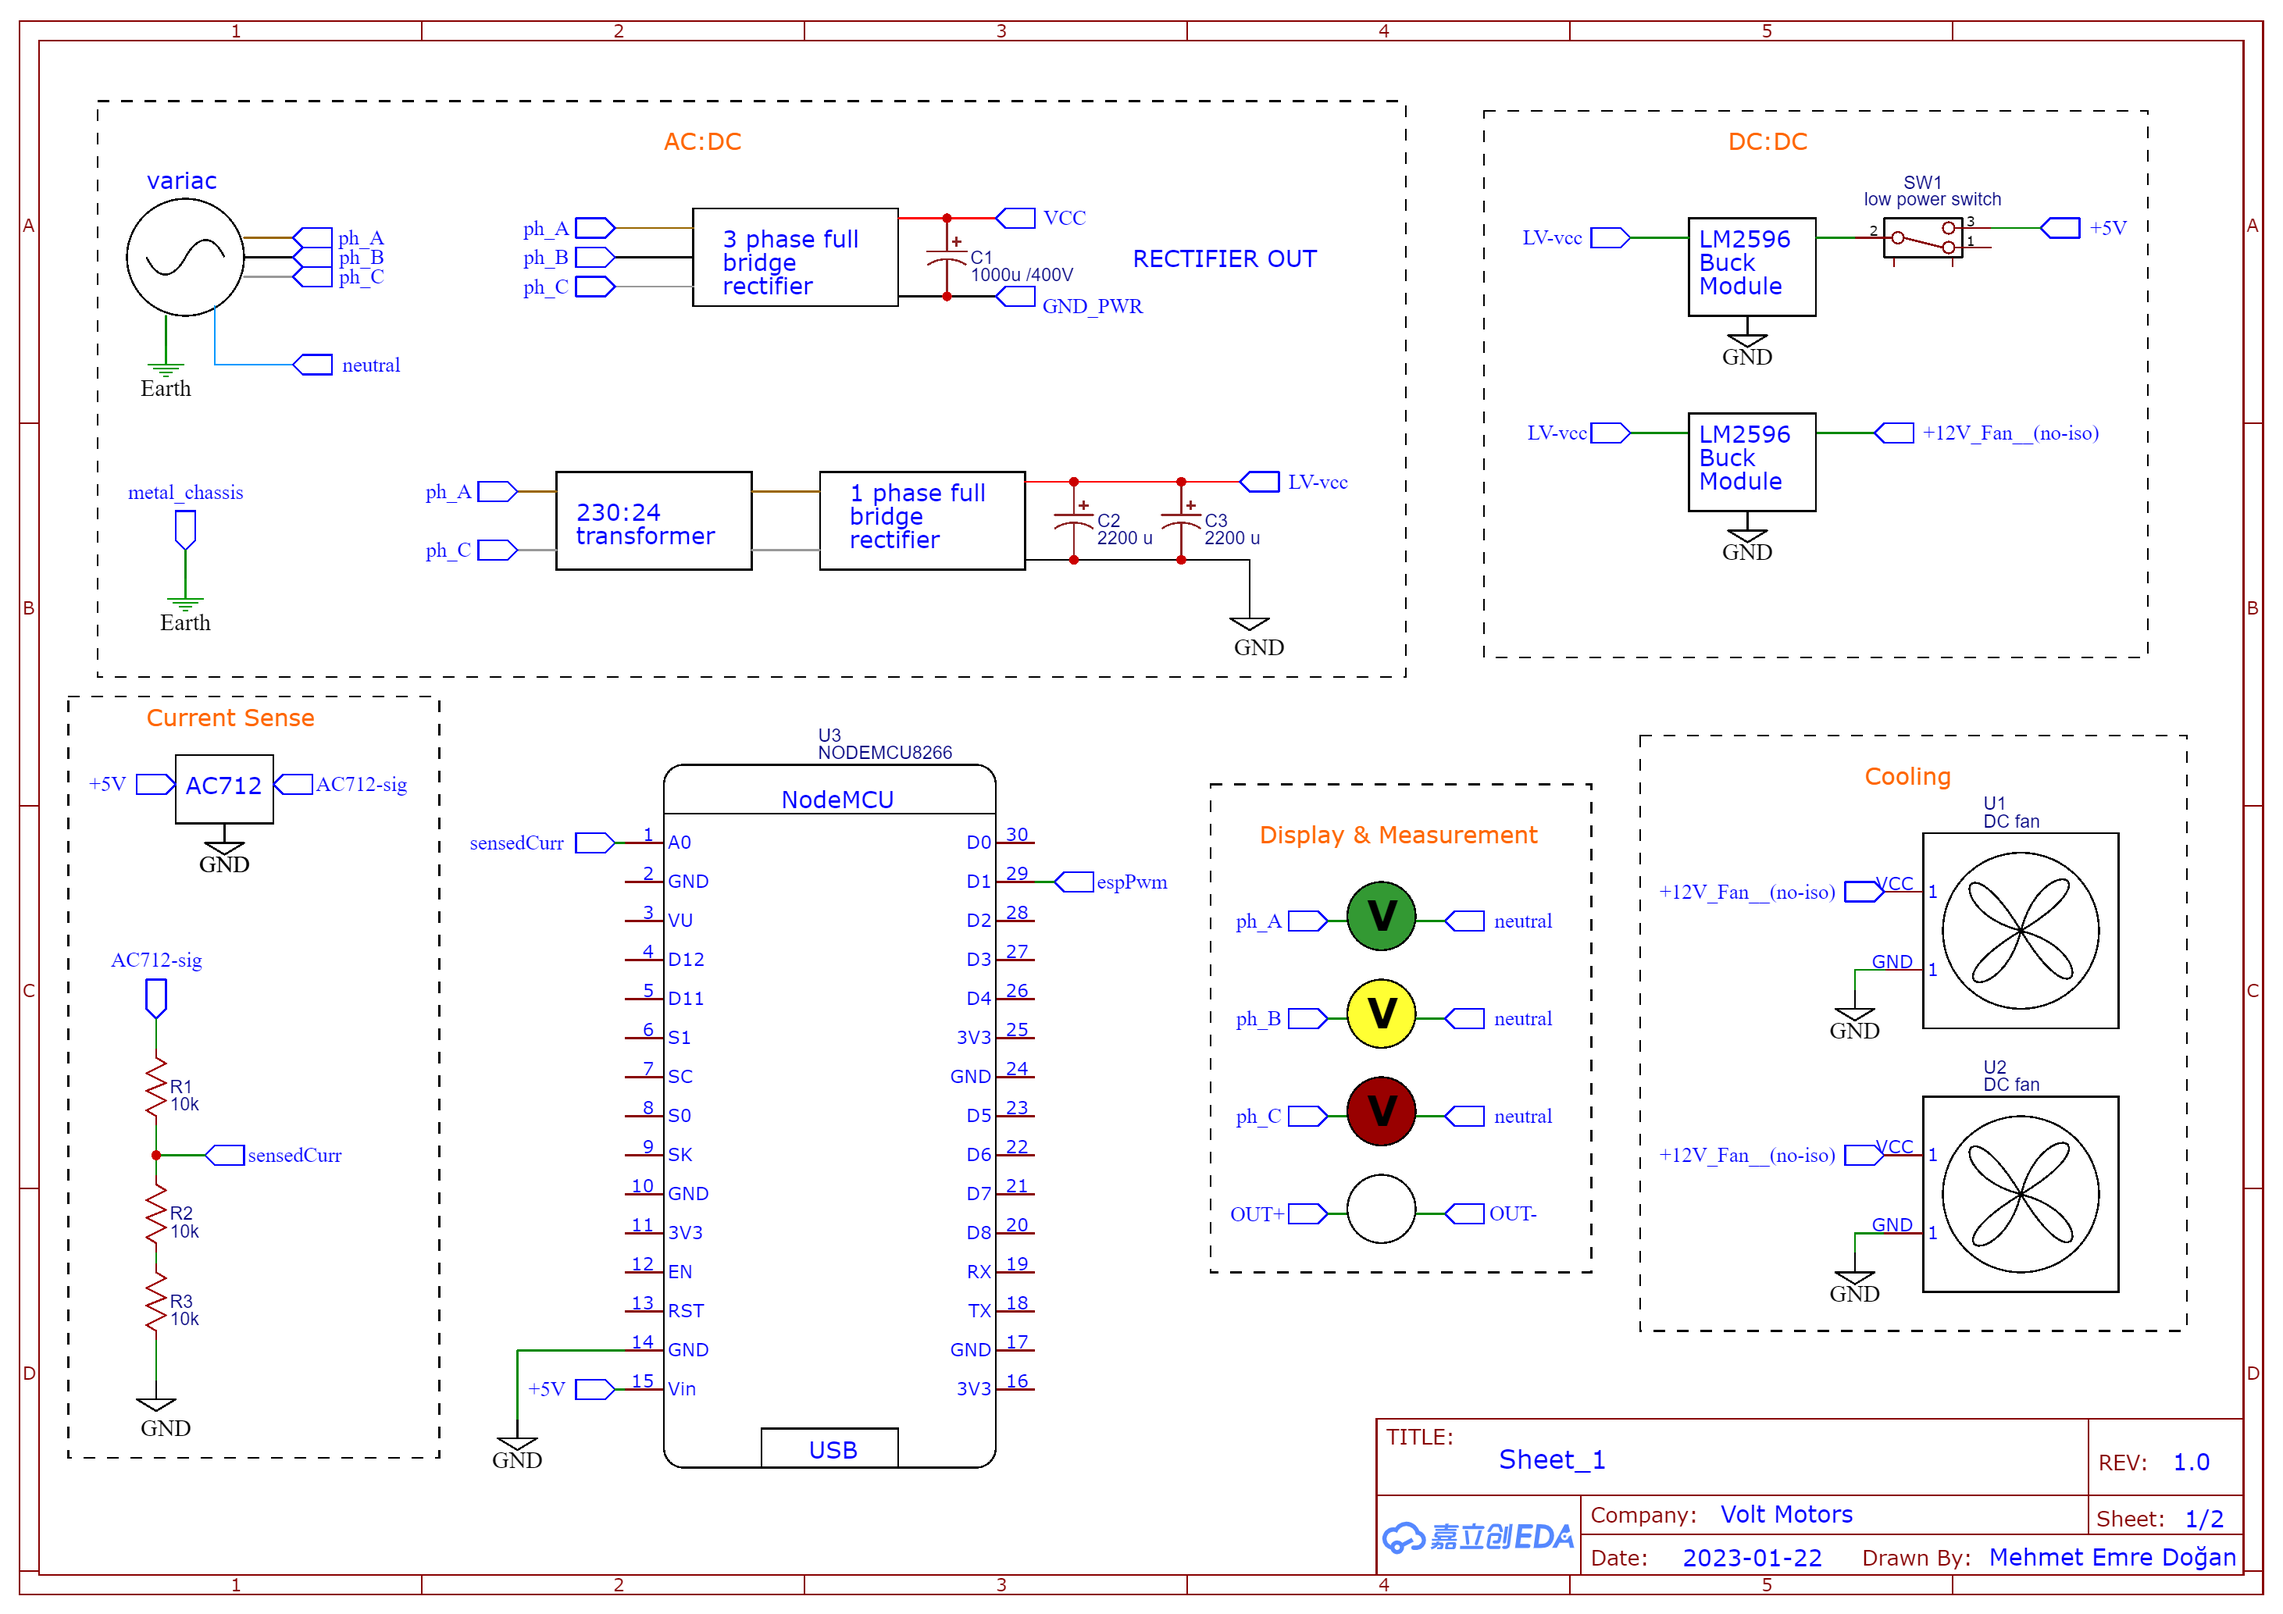
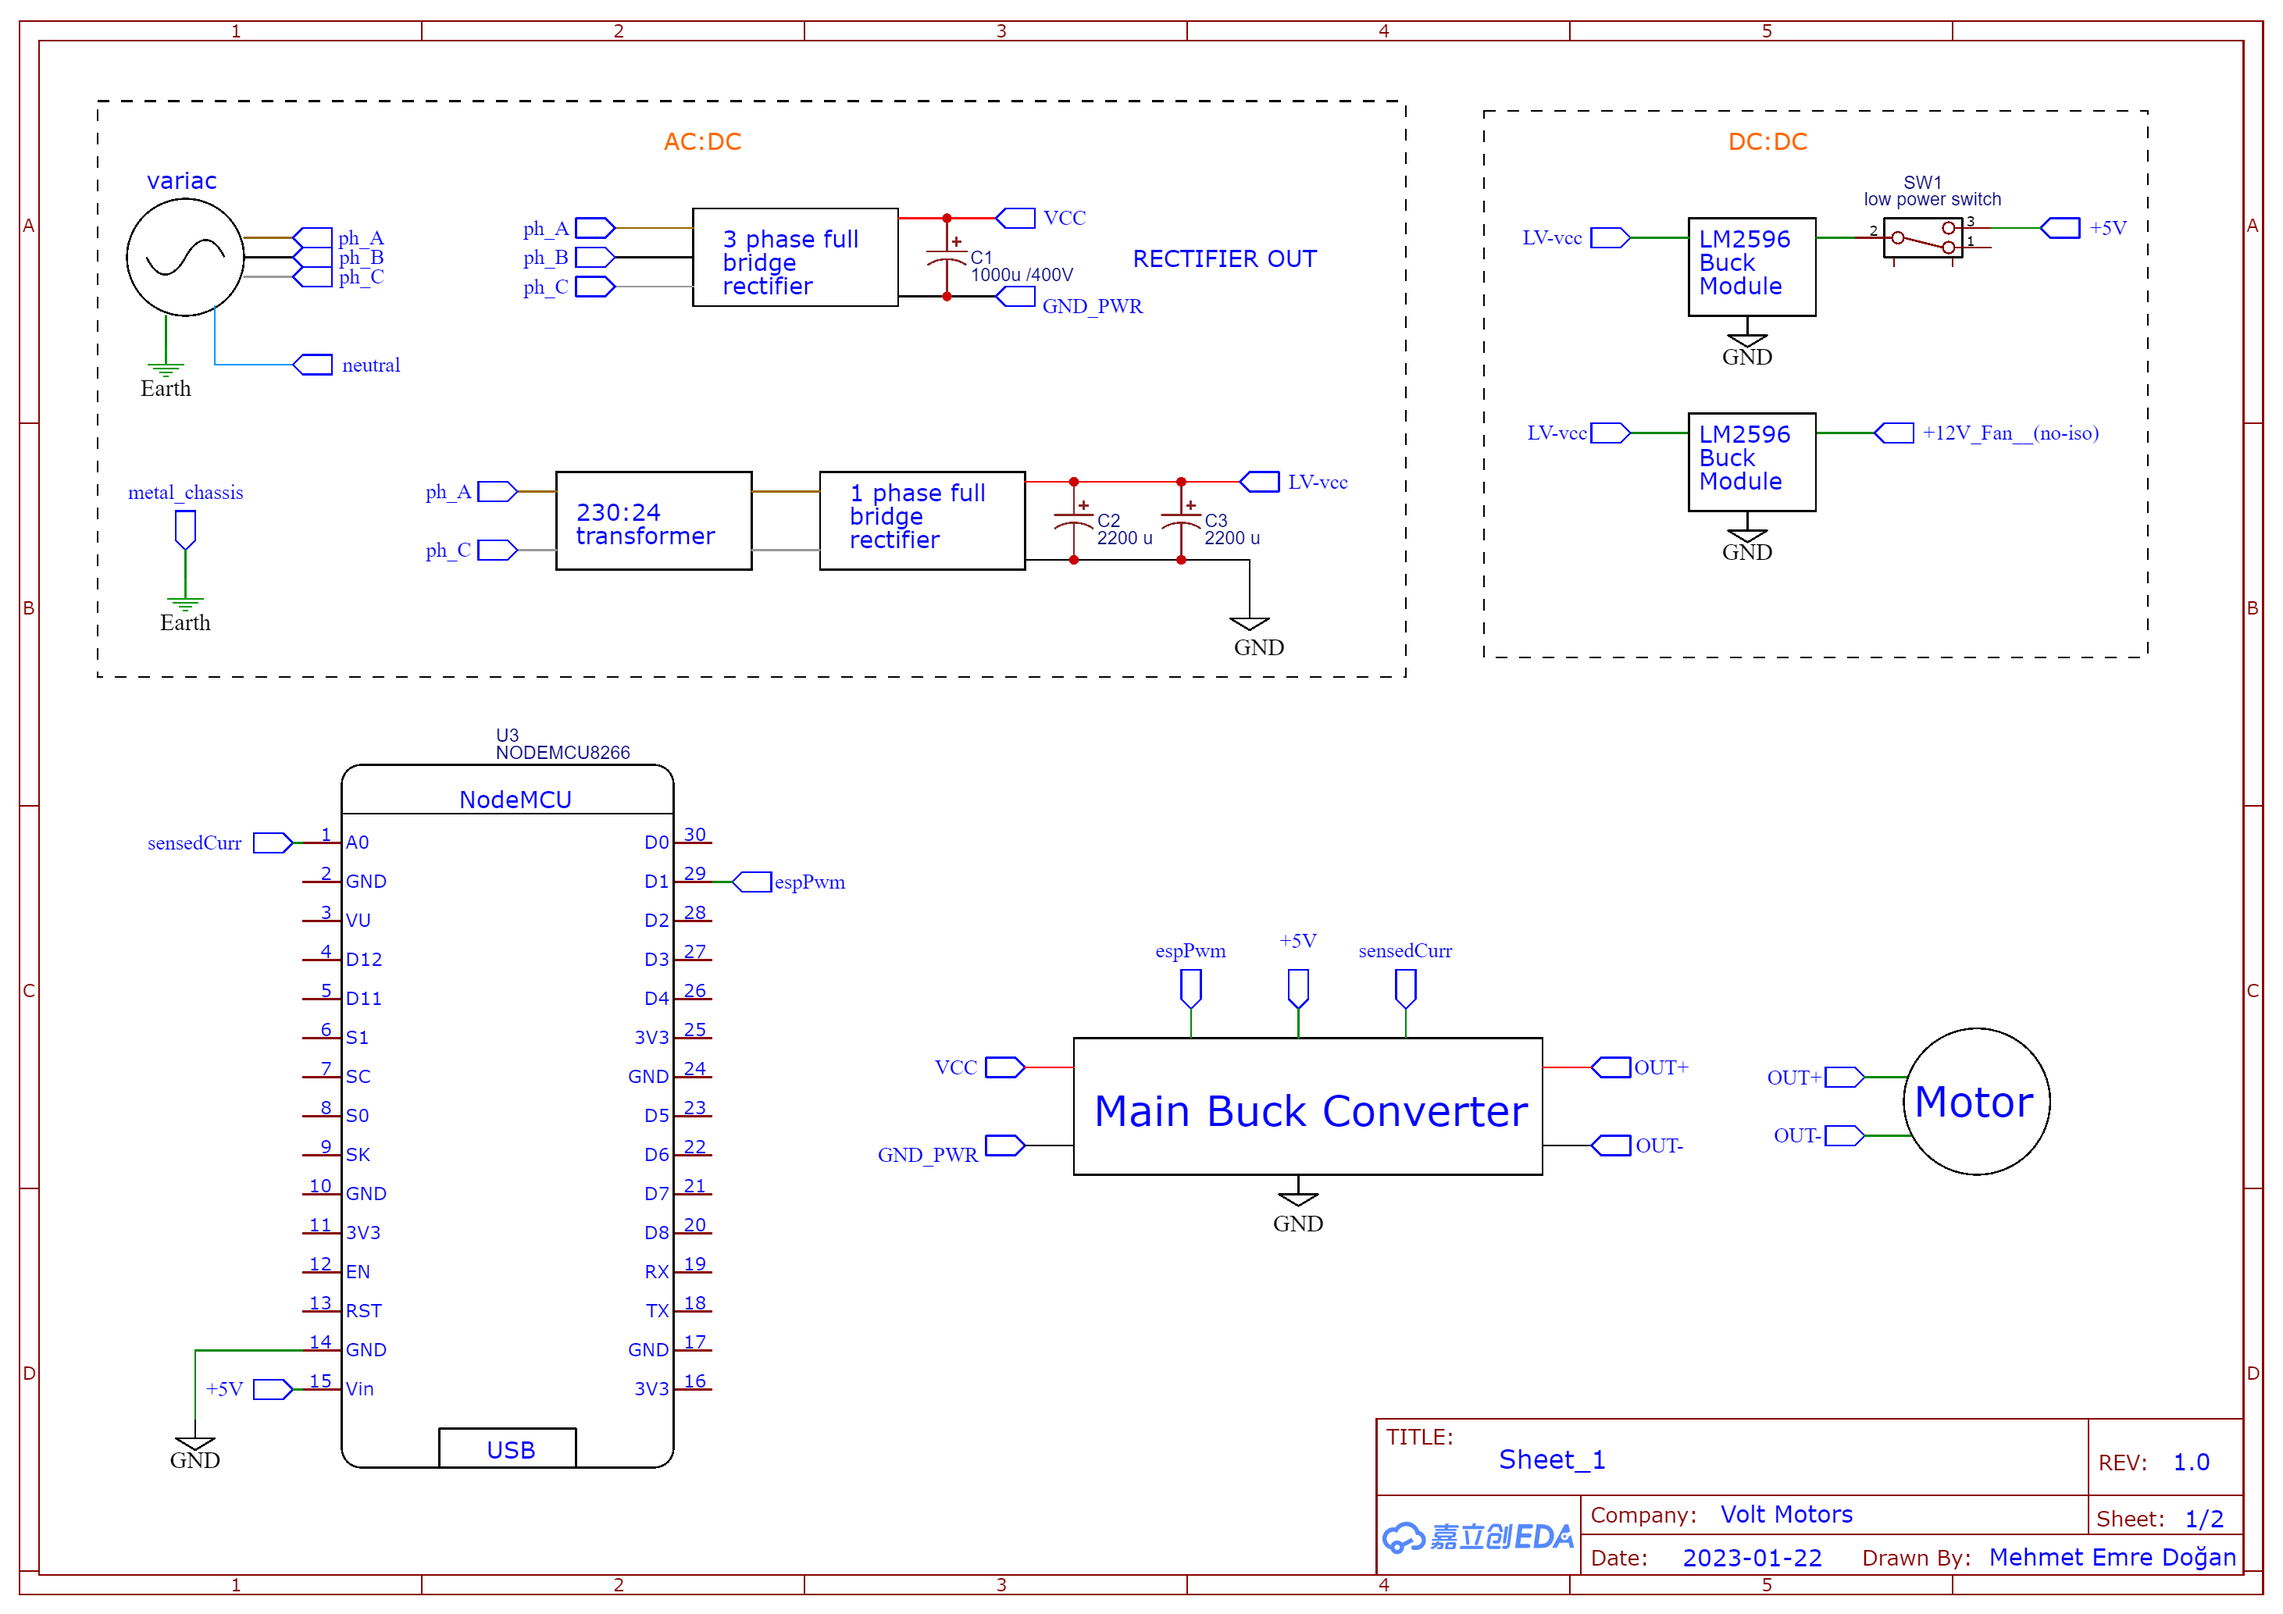
update block diags

diff --git a/README.md b/README.md
@@ -7,6 +7,8 @@
 ## Main Block Diagram
 ![image](./pics/blockDiag.png)
 
+![image](./pics/blockDiag2.png)
+
 
 ## Main Buck Converter
 ![image](./pcbDesigns/buck/buck/pics/sch.jpg)
